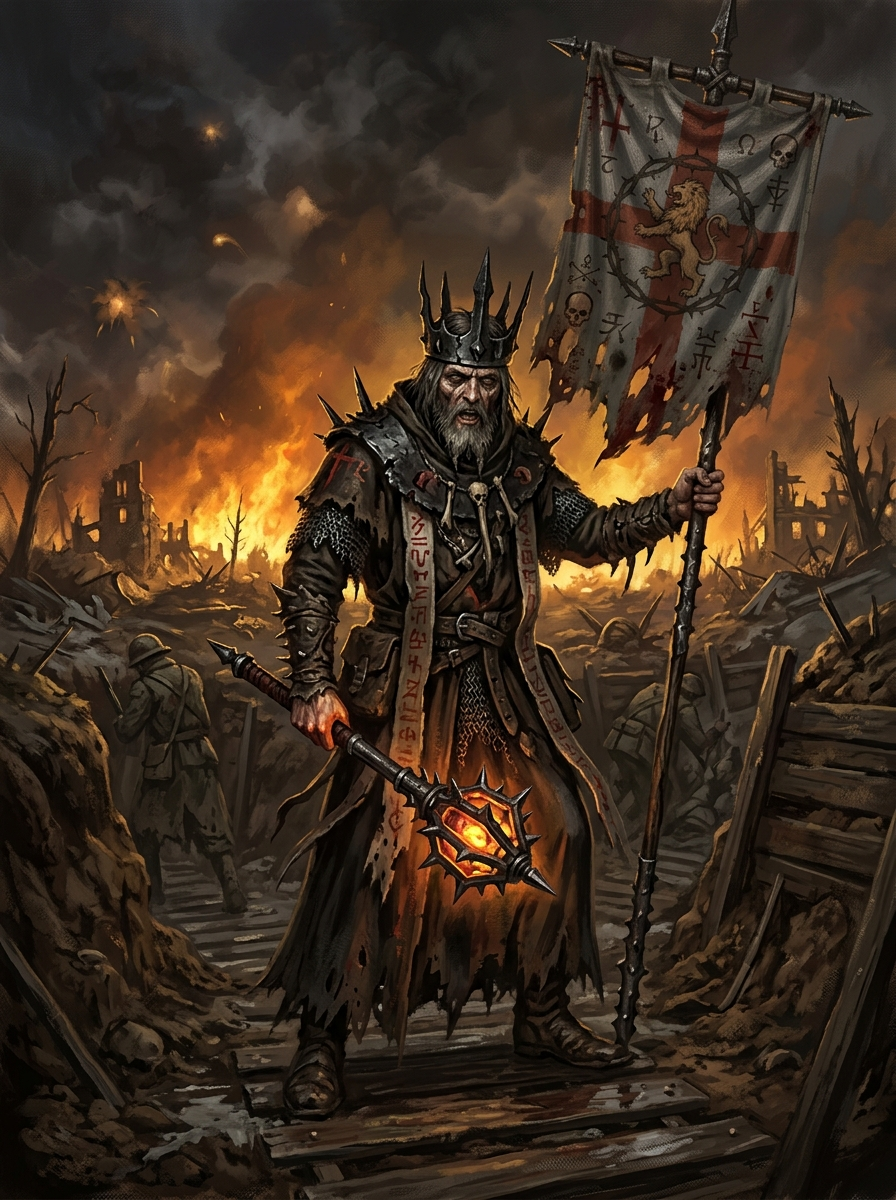
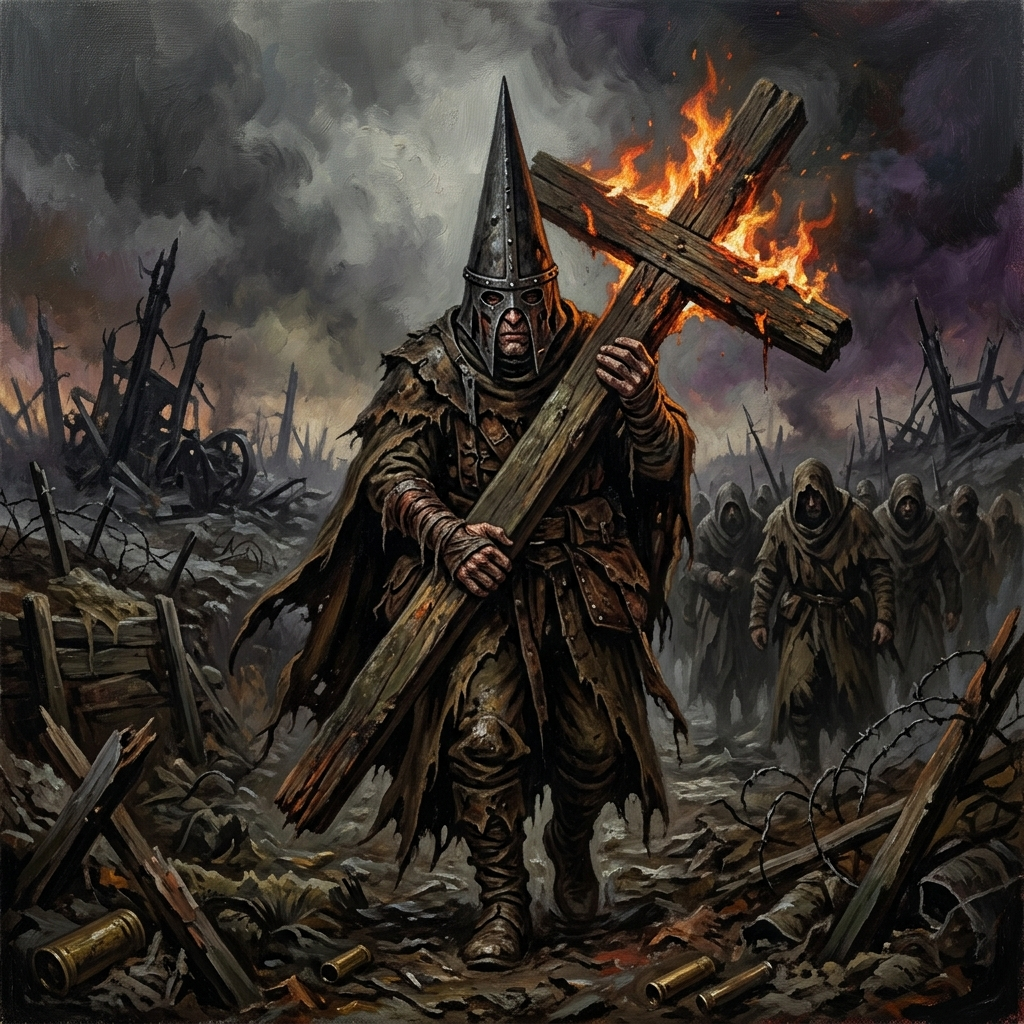
feat: complete official Trench Pilgrims core faction & 3 subfaction variants integration (Procession of the Sacred Affliction, Cavalcade of Tenth Plague, War Pilgrimage of Saint Methodius, and artwork)

diff --git a/warband_builder/builder.js b/warband_builder/builder.js
@@ -411,27 +411,27 @@ document.addEventListener('DOMContentLoaded', () => {
   }
 ],
   "trench_pilgrims": [
-    {
-      "id": "tp_standard",
-      "name": "Procession of the Sacred Relic",
-      "rule": "Sacred Zeal: Allied models gain +1 Courage near Relic Flagellants."
-    },
-    {
-      "id": "tp_affliction",
-      "name": "Procession of the Sacred Affliction",
-      "rule": "Holy Stigmata: Ecclesiastic Prisoners gain +1 Attack die when wounded."
-    },
-    {
-      "id": "tp_tenth_plague",
-      "name": "Cavalcade of the Tenth Plague",
-      "rule": "Day of His Wrath: War Prophet can execute Day of His Wrath Armor-Ignoring Action."
-    },
-    {
-      "id": "tp_methodius",
-      "name": "War Pilgrimage of Saint Methodius",
-      "rule": "Methodius Blessing: Stigmatic Nuns and Anchorite Shrines gain +1 Armour."
-    }
-  ],
+  {
+    "id": "tp_standard",
+    "name": "Trench Pilgrims Standard Procession",
+    "rule": "Martyrdom & Iron Capirote: +1 Courage when a friendly model dies. Iron capirote ignores Fear."
+  },
+  {
+    "id": "tp_sacred_affliction",
+    "name": "Procession of the Sacred Affliction",
+    "rule": "Reliquary Armoury & Punishing Millstones: Holy Icon Shields & Armour cost 20D/30D without ELITE restriction. Ecclesiastic Prisoners tethered to heavy millstones for crushing charge impact."
+  },
+  {
+    "id": "tp_tenth_plague",
+    "name": "Cavalcade of the Tenth Plague",
+    "rule": "Swarm of Locusts: Communicant Anti-Tank Hunters and Plague Scourges."
+  },
+  {
+    "id": "tp_saint_methodius",
+    "name": "War Pilgrimage of Saint Methodius",
+    "rule": "Order of Saint Methodius: Anchorite Shrines & Stigmatic Nuns with holy iron flails."
+  }
+],
   "iron_sultanate": [
   {
     "id": "is_standard",
@@ -1380,19 +1380,155 @@ document.addEventListener('DOMContentLoaded', () => {
     }
   ],
   "trench_pilgrims": [
-    {
-      "id": "UNIT_TP_WAR_PROPHET",
-      "name": "Trench Pilgrim War Prophet",
-      "cat": "Leader",
-      "cost": 70,
-      "max": 1,
-      "isLeader": true,
-      "img": "images/war_prophet.jpg",
-      "fullStats": "MOVE: 6\" | RANGED: +0 | MELEE: +2 | ARMOUR: 1 | WOUNDS: 2 | COURAGE: 9+",
-      "baseKeywords": [
-        "COMMANDER",
-        "HOLY FERVOUR"
-      ],
+  {
+    "id": "UNIT_TP_WAR_PROPHET",
+    "name": "War Prophet / Prophetess",
+    "cat": "Leader",
+    "cost": 75,
+    "max": 1,
+    "isLeader": true,
+    "img": "images/war_prophet.jpg",
+    "fullStats": "MOVE: 6\" | RANGED: +1 | MELEE: +2 | ARMOUR: 1 | WOUNDS: 2 | COURAGE: 9+",
+    "baseKeywords": [
+      "COMMANDER",
+      "DIVINE VISIONS",
+      "HOLY INSPIRATION"
+    ],
+    "equip": [
+      "Heavy War Cross",
+      "Pistol"
+    ]
+  },
+  {
+    "id": "UNIT_TP_COMMUNICANT",
+    "name": "Communicant Giant",
+    "cat": "Monstrous Elite",
+    "cost": 115,
+    "max": 2,
+    "isLeader": false,
+    "img": "images/communicant_giant.jpg",
+    "fullStats": "MOVE: 6\" | RANGED: +0 | MELEE: +3 | ARMOUR: 2 | WOUNDS: 4 | COURAGE: 9+",
+    "baseKeywords": [
+      "MONSTROUS",
+      "HOLY BREAD RAGE",
+      "UNSTOPPABLE"
+    ],
+    "equip": [
+      "Giant Flail",
+      "Sacred Chains"
+    ]
+  },
+  {
+    "id": "UNIT_TP_ANCHORITE",
+    "name": "Anchorite Shrine",
+    "cat": "Heavy Armor Construct",
+    "cost": 130,
+    "max": 1,
+    "isLeader": false,
+    "img": "images/anchorite_shrine.jpg",
+    "fullStats": "MOVE: 4\" | RANGED: +2 | MELEE: +2 | ARMOUR: 3 | WOUNDS: 4 | COURAGE: 10+",
+    "baseKeywords": [
+      "WALKING SHRINE",
+      "ARMOUR +3",
+      "RELIC CANNON"
+    ],
+    "equip": [
+      "Heavy Trench Gun",
+      "Iron Relic Plate"
+    ]
+  },
+  {
+    "id": "UNIT_TP_MARTYR",
+    "name": "Martyr-Penitent",
+    "cat": "Specialist",
+    "cost": 45,
+    "max": 3,
+    "isLeader": false,
+    "img": "images/martyr_penitent.jpg",
+    "fullStats": "MOVE: 6\" | RANGED: +0 | MELEE: +2 | ARMOUR: 0 | WOUNDS: 1 | COURAGE: 10+",
+    "baseKeywords": [
+      "UNDEAD ZEALOT",
+      "NO PAIN",
+      "EXPLOSIVE VEST"
+    ],
+    "equip": [
+      "Penitent Scourge",
+      "Explosive Harness"
+    ]
+  },
+  {
+    "id": "UNIT_TP_STIGMATIC_NUN",
+    "name": "Stigmatic Nun",
+    "cat": "Elite",
+    "cost": 55,
+    "max": 3,
+    "isLeader": false,
+    "img": "images/martyr_penitent.jpg",
+    "fullStats": "MOVE: 6\" | RANGED: +1 | MELEE: +3 | ARMOUR: 0 | WOUNDS: 2 | COURAGE: 9+",
+    "baseKeywords": [
+      "STIGMATA BLESSING",
+      "HOLY RAGE"
+    ],
+    "equip": [
+      "Blessed Sword",
+      "Trench Pistol"
+    ]
+  },
+  {
+    "id": "UNIT_TP_CASTIGATOR",
+    "name": "Castigator",
+    "cat": "Specialist",
+    "cost": 50,
+    "max": 2,
+    "isLeader": false,
+    "img": "images/castigator.jpg",
+    "fullStats": "MOVE: 6\" | RANGED: +1 | MELEE: +2 | ARMOUR: 1 | WOUNDS: 1 | COURAGE: 8+",
+    "baseKeywords": [
+      "WHIP OF GOD",
+      "INSTILL FEAR"
+    ],
+    "equip": [
+      "Barbed Scourge",
+      "Heavy Pistol"
+    ]
+  },
+  {
+    "id": "UNIT_TP_PRISONER",
+    "name": "Ecclesiastic Prisoner",
+    "cat": "Trooper",
+    "cost": 25,
+    "max": 6,
+    "isLeader": false,
+    "img": "images/martyr_penitent.jpg",
+    "fullStats": "MOVE: 5\" | RANGED: - | MELEE: +1 | ARMOUR: 0 | WOUNDS: 1 | COURAGE: 6+",
+    "baseKeywords": [
+      "EXPENDABLE",
+      "PUNISHING MILLSTONES"
+    ],
+    "equip": [
+      "Iron Chains",
+      "Stone Millstone"
+    ]
+  },
+  {
+    "id": "UNIT_TP_PILGRIM",
+    "name": "Trench Pilgrim",
+    "cat": "Trooper",
+    "cost": 30,
+    "max": 12,
+    "isLeader": false,
+    "img": "images/trench_trooper.jpg",
+    "fullStats": "MOVE: 6\" | RANGED: +1 | MELEE: +1 | ARMOUR: 0 | WOUNDS: 1 | COURAGE: 7+",
+    "baseKeywords": [
+      "LINE INFANTRY",
+      "IRON CAPIROTE"
+    ],
+    "equip": [
+      "Musket",
+      "Club"
+    ]
+  }
+],
       "equip": [
         "Trench Shotgun"
       ]

diff --git a/game_engine/master_codex.js b/game_engine/master_codex.js
@@ -1,6 +1,28 @@
 /* Master Keyword Rules Codex Dictionary with Explicit PASSIVE vs ACTIVATED Classification across All Units, Subfactions, and Equipment */
 const masterCodex = {
 
+    "HOLY MARTYRDOM": {
+      cat: "Trench Pilgrim Zeal",
+      desc: "When a friendly Pilgrim model is killed in battle, all nearby allies gain +1 Courage for the turn.",
+      impact: "+1 Courage on Casualty"
+    },
+    "RELIQUARY ARMOURY": {
+      cat: "Sacred Affliction Trait",
+      desc: "Holy Icon Shields and Holy Icon Armour cost 20D / 30D without ELITE restriction.",
+      impact: "20D / 30D Holy Icon Armour & Shields"
+    },
+    "PUNISHING MILLSTONES": {
+      cat: "Sacred Affliction Impact",
+      desc: "Ecclesiastic Prisoners tethered to heavy stone millstones inflict crushing Impact Damage on Charge.",
+      impact: "Crushing Millstone Charge Damage"
+    },
+    "STIGMATA BLESSING": {
+      cat: "Stigmatic Nun Trait",
+      desc: "Each Wound suffered increases Melee attack dice by +1 instead of penalizing.",
+      impact: "+1 Melee Die per Wound Suffered"
+    },
+
+
     "FURY OF SAINT ERNEST": {
       cat: "Red Brigade Dual Pistols",
       desc: "Officers gain Gunslinger dual-pistol skill for 5D. Access to Molotov Cocktails.",
